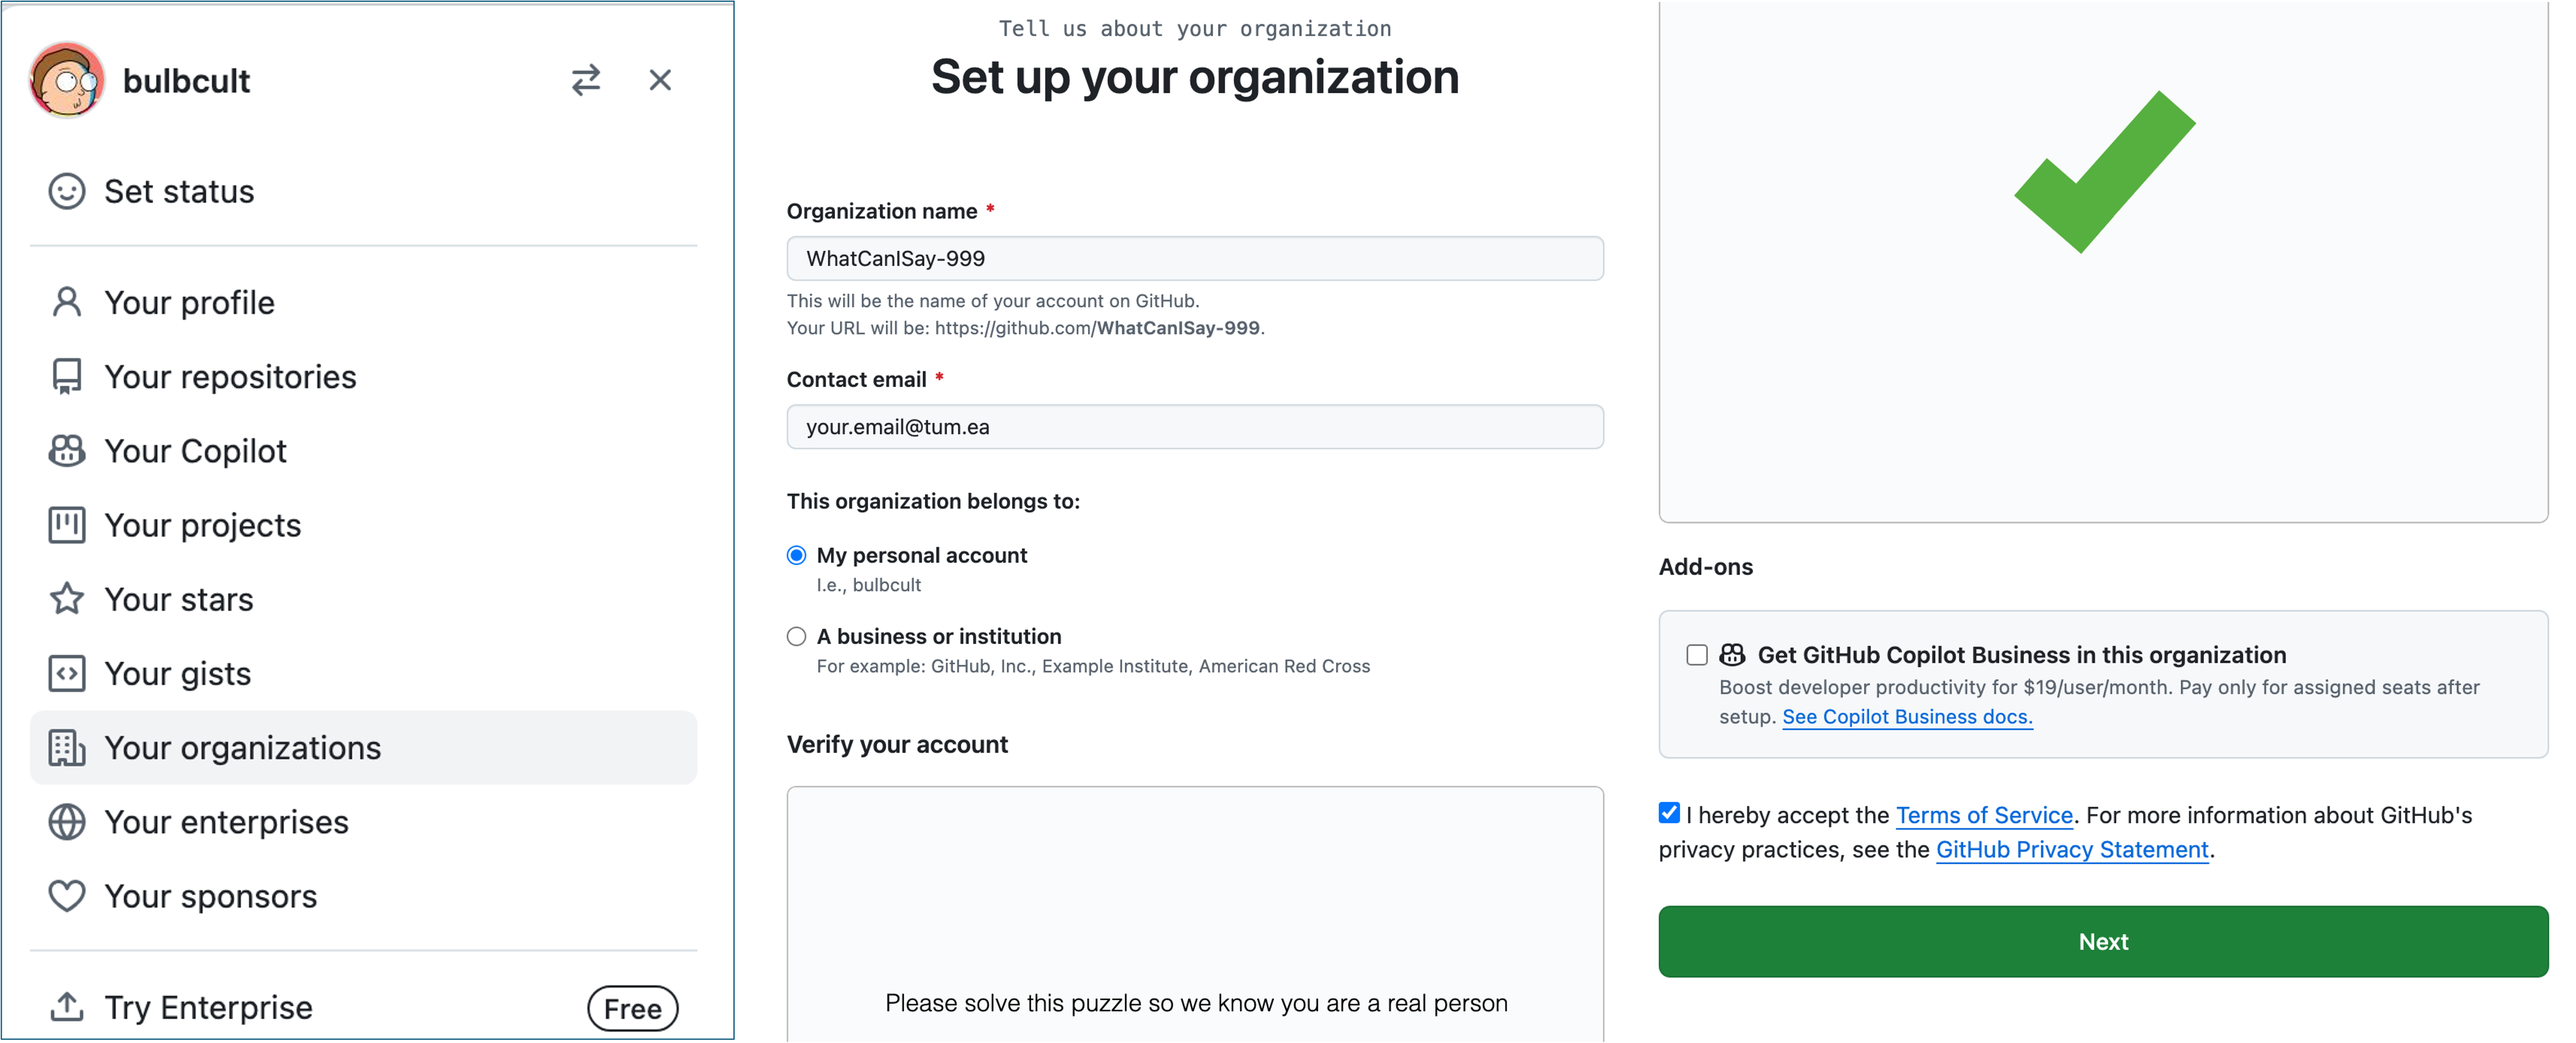
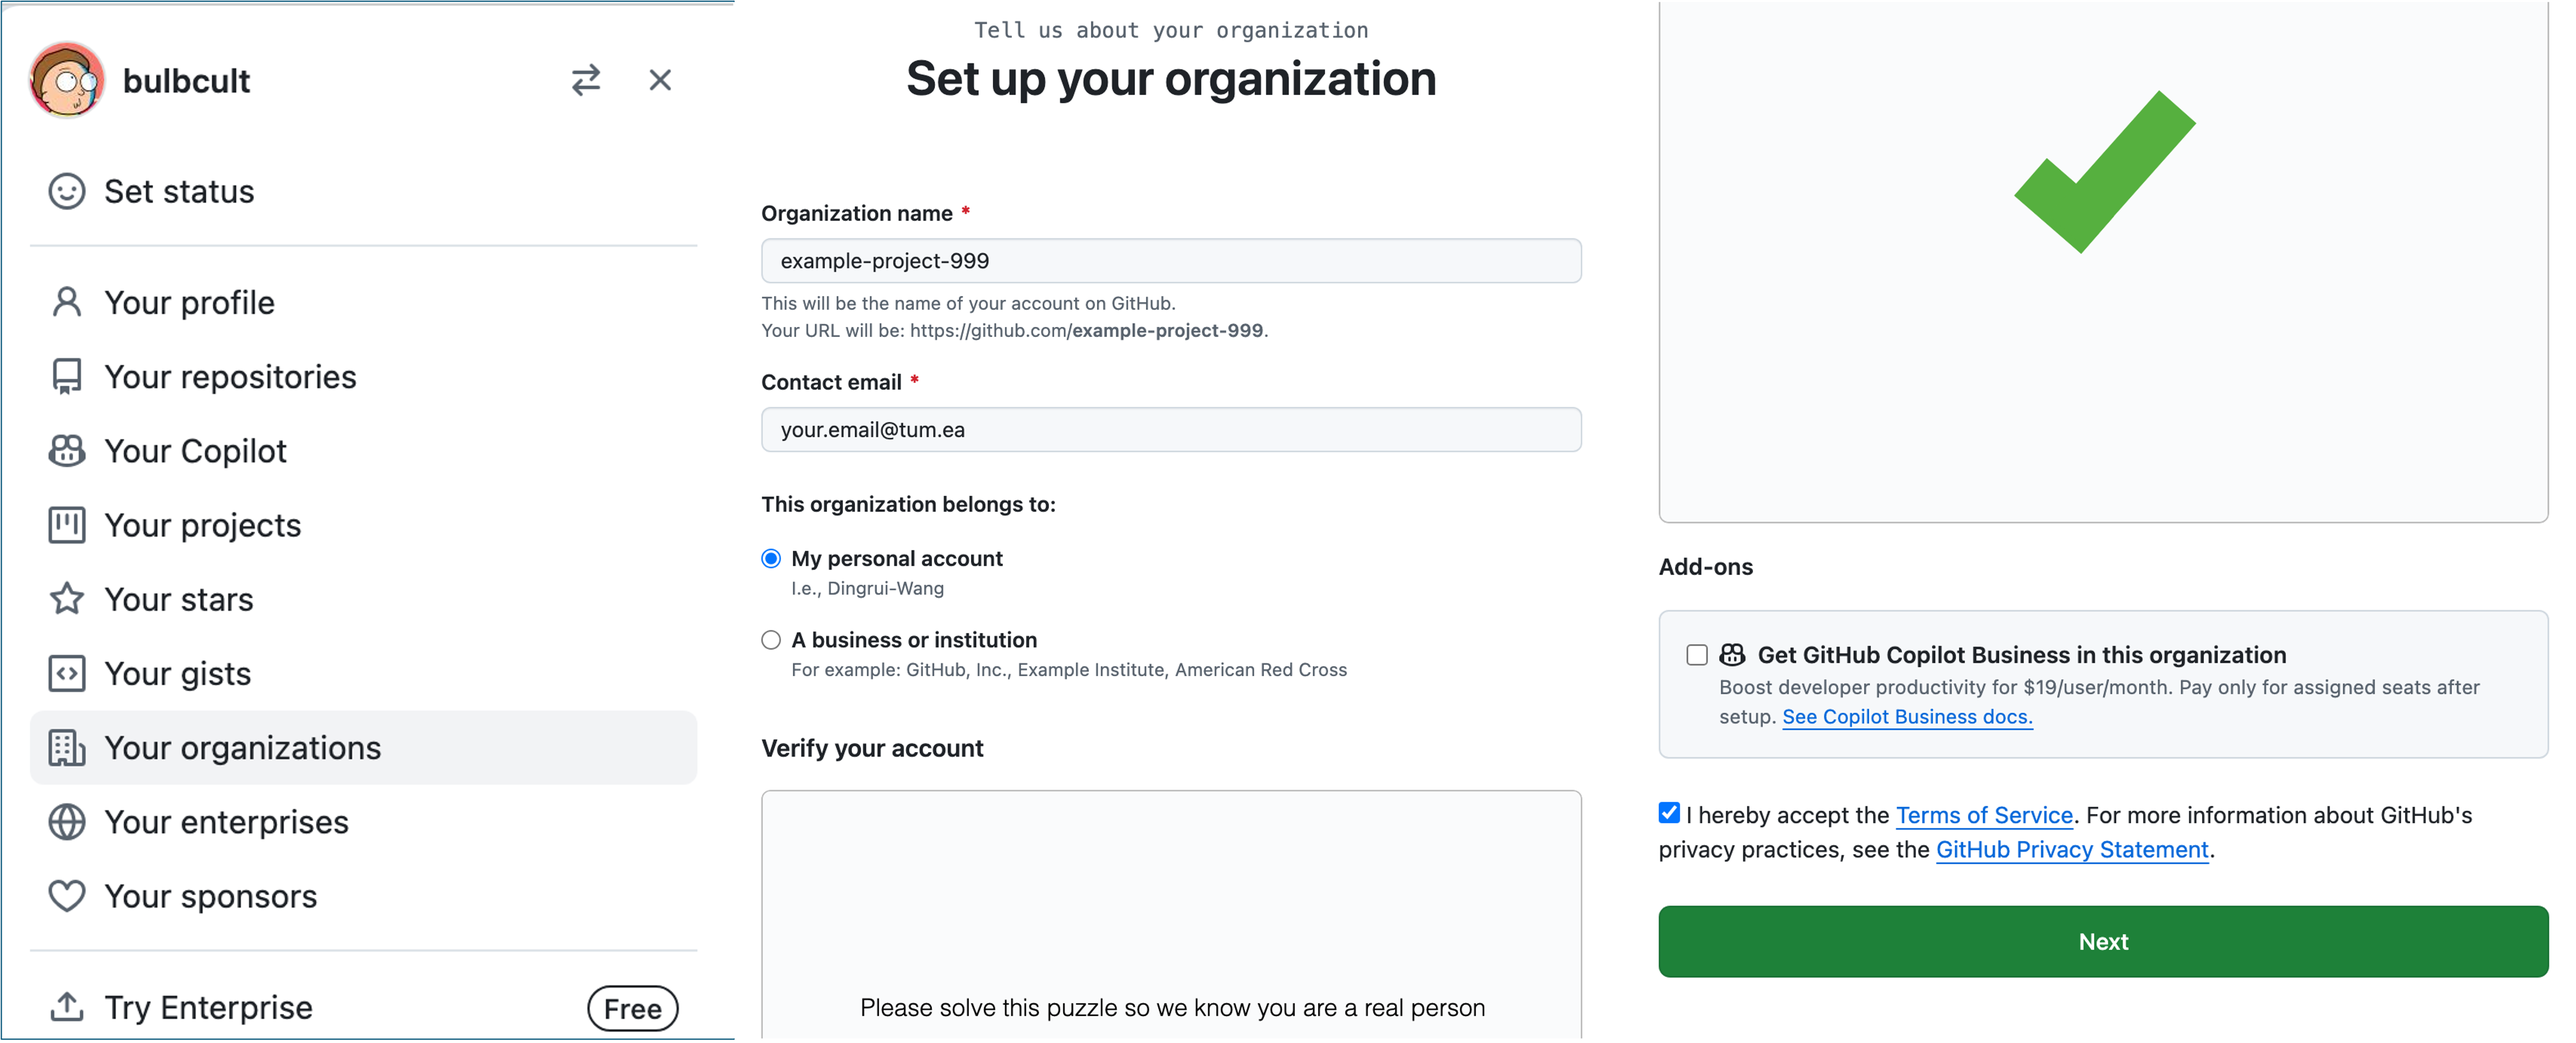
Added road map pictures

diff --git a/README.md b/README.md
@@ -8,20 +8,39 @@
 
 [**TL;DR**] This repo contains a starter tutorial to build the paper website which aims to convey the concept of papers in a more straightforward, intuitive and easy-to-understand way.
 
+## Table of Contents
+- [1. Start Here](#1-start-here)
+  - [1.1 Create a new GitHub organization](#11-create-a-new-github-organization)
+  - [1.2 Create website repo from import](#12-create-website-repo-from-import)
+  - [1.3 Deploy the website](#13-deploy-the-website)
+- [2. Play with it](#2-play-with-it)
+  - [2.0 Modify your website locally](#20-modify-your-website-locally)
+  - [2.1 Try to change the title](#21-try-to-change-the-title)
+  - [2.2 Try to add a new section called `Method`](#22-try-to-add-a-new-section-called-method)
+  - [2.3 Try to make the empty video slot show a dog video](#23-try-to-make-the-empty-video-slot-show-a-dog-video)
+- [FAQ](#faq)
+
 ## 1. Start Here: 
 ### 1.1 Create a new github organization
+![create_org](./sources/create_org.png)
+
 First, click your github profile image, on the pop up panel, find ```Your Organizations``` button and click it. Then click ```New organization``` to create a new, free organization named ```example-project-999``` (just give your organization with any unique name), from now on, we use ```example-project-999``` as the example:
 
-![DualAD Framework](./sources/create_org.png)
+
 
 ### 1.2 Create website repo from import
-Within the just built organization, import paper-website repo to create a new repo with name: ```example-project-999.github.io```, link to be imported is below:
+![repo_setting](./sources/repo_setting.png)
+
+Within the just built organization, import paper-website repo to create a new repo with your unique org name appended with ```.github.io```, the result looks like: ```example-project-999.github.io```, link to be imported is below:
 
 ```bash
 https://github.com/paper-website/paper-website.github.io
 ```
 
+Make sure your choose your organization correctly and name your webiste repo properly. Then click ```Begin Import```. This will take several minutes to for remote server to compile.
+
 ### 1.3 Deploy the website
+![deploy_web](./sources/deploy_web.png)
 Now you can deploy the website and just wait for a few minutes, you can get to the setting page option, your will find the generated website link.
 
 ## 2. Play with it: 
@@ -68,11 +87,10 @@ Again, push the modification to your remote repo with the same commands as shown
 ### 2.3 Try to make the empty video slot show a dog video
 In ```index.html``` file, from line 147 to line 171, change something to make the dog video pop up.
 
+One more time, push the modification to your remote repo with the same commands as shown in ```2.1```.
 
 ### PS. If you are using VScode
 In your extension, add ```open in browser```, this can locally compile your website on your browser. When it is installed, right click on your ```index.html```, you will see ```Open In Default Browser``` and ```Open In other Browsers```. Click ```Open In Default Browser```, it will open a tab on your default browser automatically. If it doesn't work, click ```Open In other Browsers``` and choose other browsers. 
-
-Another time, push the modification to your remote repo with the same commands as shown in ```2.1```.
 
 ## FAQ:
 1. why a new organization is needed?
